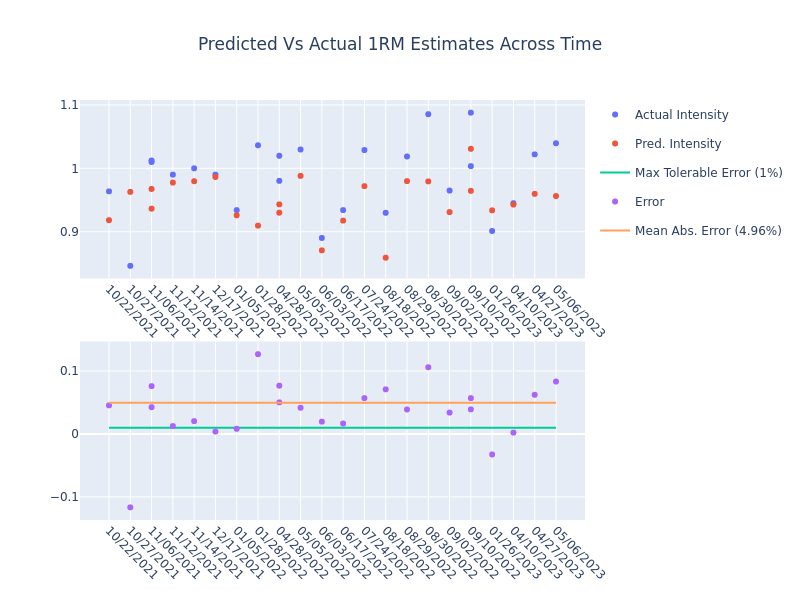
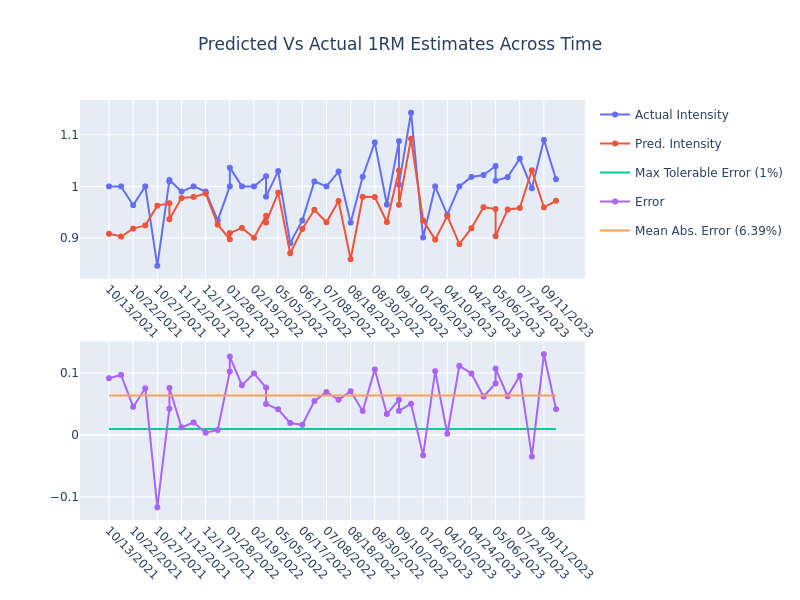
updated graphs from model

diff --git a/PotentialSurface.tex b/PotentialSurface.tex
@@ -963,7 +963,8 @@ To simplify the model, $\epsilon_5$, $\epsilon_6$ and $\epsilon_7$ can be limite
 \section{Analysis of Property 6: 1RM Estimations}
 \label{sec:PotentialSurface1RMEstimations}
 
-Property 6 is concerned with 1RM estimations, with it defining an acceptable boundary of accuracy. Table \ref{tab:BasicSurface1RMEstimations} and figure \ref{fig:ApproximateVsActual1RMIntensity} show the models predicted 1RM vs the actual weight that was lifted. \footnote{The lifter did not have access to any of the models estimations when the 1RM attempts were performed, removing any bias from the data that would have been present if the lifter was told the models estimates.} It should be clear from this table that the model consistently under-predicts the lifters actual 1RM with an error much greater than $1\%$. The model almost never predicts above $100\%$ intensity, which is required for a new 1RM. The only exception was for heeled squat on $9/10/2022$ but even then the model significantly under-predicted the lifters actual performance.
+Property 6 is concerned with 1RM estimations, with it defining an acceptable boundary of accuracy. Table \ref{tab:BasicSurface1RMEstimations} and figure \ref{fig:ApproximateVsActual1RMIntensity} show the models predicted 1RM vs the actual weight that was lifted. \footnote{The lifter did not have access to any of the models estimations when the 1RM attempts were performed, removing any bias from the data that would have been present if the lifter was told the models estimates.} It should be clear from this table that the model consistently under-predicts the lifters actual 1RM with an error much greater than $1\%$. The model almost never predicts above $100\%$ intensity, which is required for a new 1RM.
+%The only exception was for heeled squat on $9/10/2022$ but even then the model significantly under-predicted the lifters actual performance.
 
 \begin{figure}[htb]
     \centering
@@ -971,7 +972,7 @@ Property 6 is concerned with 1RM estimations, with it defining an acceptable bou
     \caption{Graphs comparing the approximate and actual 1RM intensity values. Note how the model nearly always under predicts the lifters current 1RM. The initial value where the prediction was $0$ is not shown in these figures to allow the graphs to be scaled appropriately to show the smaller differences in the predicted vs actual values.}
     \label{fig:ApproximateVsActual1RMIntensity}
 \end{figure}
-\begin{table}[htb]
+\begin{table}[p]
     \centering
 	\csvautotabular{../data/generatedData/Client1.1RMPred.slidingWindow.basic.csv}
 	\caption{A table showing predicted vs actual 1RM intensities. Note that the model consistently under predicts the lifters current 1RM. The first intensity prediction is $0\%$ because that data point is near the start of the data, meaning that at that time the model did not have enough data to make a reliable prediction. This limitation of needed a certain amount of data before predictions can be made will be discussed in part 2.}
@@ -982,7 +983,7 @@ There are a couple reasons the model could be exhibiting this behavior. The most
 
 \section{Summary}
 
-Before moving forward it is worth quickly noting the success and failures of this surface so that it can be compared to the surfaces presented in the next few chapters. Out of all six properties, this surface exhibited four correctly. The fist property that was not met was property 1.b because the surface did not reach a plateau representing volume base. Despite this hindrance, the surface did seem to exhibit reasonable behavior above $50\%$ intensity, which could make it a viable surface to use as long as this limitation is kept in mind.
+Before moving forward it is worth quickly noting the success and failures of this surface so that it can be compared to the surfaces presented in the next few chapters. Out of all six properties, this surface exhibited four correctly. The fist property that was not properly exhibited was property 1.b because the surface did not reach a plateau representing the lifters volume tolerance. Despite this hindrance, the surface did seem to exhibit reasonable behavior above $50\%$ intensity, which could make it a viable surface to use as long as this limitation is kept in mind.
 
 Other than property 1.b, property 5 and 6 were also not properly exhibited. Property 5 dealt with unbounded volume. Constraints were placed on the surface limit the occurrence of unbounded volume, but there can still be scenarios where $\epsilon_5=0$, $\epsilon_6=0$, or $\epsilon_7=0$ where unbounded volume can occur. Property 6 was concerned with 1RM estimations. It was shown that the surface consistently under-predicts the lifters 1RM. This is problematic for several reasons, but largely because a lifters goal is to increase there 1RM, making accurate 1RM estimations necessary to track progress. Table \ref{tab:BasicSurfacePropertiesAndBehaviorsSummary} summarizes the properties and whether or not the surface properly exhibited there behavior. It is clear this surface is far from perfect. Chapter \ref{sec:PotentialSurfaceTheVolumeBaseSurface} will attempt to address some of the previously outlined issues with an updated surface.
 
@@ -1009,7 +1010,7 @@ Other than property 1.b, property 5 and 6 were also not properly exhibited. Prop
 \chapter{Surface 2: The Volume Base Surface}
 \label{sec:PotentialSurfaceTheVolumeBaseSurface}
 
-The second surface builds off of the previous chapter, but changes the meaning of the $\hat{-}$ symbol to mean division. The goal of doing this is to ensure the surface exhibits property 1.b, a property that the basic surface discussed in the previous chapter was missing.
+The second surface builds off of the previous chapter, but changes the meaning of the $\hat{-}$ symbol from the effort-fatigue model to mean division. The goal of doing this is to ensure the surface exhibits property 1.b, a property that the basic surface discussed in the previous chapter was missing.
 
 
 %\section{Application: Solving for the Unknown}

diff --git a/main.py b/main.py
@@ -77,9 +77,9 @@ class Data(object):
     tl=pd.read_csv("../data/testData/AugmentedTrainingLogTestData.csv")
     et=pd.read_csv("../data/testData/ExerciseTypeTestData.csv")
     e=pd.read_csv("../data/testData/ExerciseTestData.csv")
-    ms=pd.read_csv("../data/generatedData/Client1.ms.csv")
-    vs=pd.read_csv("../data/generatedData/Client1.volSkew.csv")
-    pred=pd.read_csv("../data/generatedData/Client1.pred.csv")
+    ms=pd.read_csv("../data/generatedData/Client1.ms.slidingWindow.basic.csv")
+    vs=pd.read_csv("../data/generatedData/Client1.volSkew.slidingWindow.basic.csv")
+    pred=pd.read_csv("../data/generatedData/Client1.pred.slidingWindow.basic.csv")
     oneRMPred=pd.read_csv("../data/generatedData/Client1.1RMPred.slidingWindow.basic.csv")
     approxVolSkew={
         f[f.rfind('/')+1:f.rfind('.')]: pd.read_csv(f)
@@ -691,8 +691,8 @@ class Ch3(object):
         )[["Eps1","Date"]].dropna()
         min: float=tmp["Eps1"].min()
         max: float=tmp["Eps1"].max()
-        print((tmp["Eps1"]<0).sum())
-        print((tmp["Eps1"]<=0).sum())
+        # print((tmp["Eps1"]<0).sum())
+        # print((tmp["Eps1"]<=0).sum())
         numBelowZero: int=(tmp["Eps1"]<=0).sum()
         fig=px.scatter(tmp,x="Date",y="Eps1",
             labels={
@@ -742,7 +742,7 @@ class Ch3(object):
             #     "Approx Volume Skew: >=1: {2}  <1: {3}</sup>"
             #     .format(numGte1,numLt1,approxNumGte1,approxNumLt1)
         )
-        print(np.average(np.abs(tmp["VolumeSkew"]-tmp["ApproxVolumeSkew"]).dropna()))
+        # print(np.average(np.abs(tmp["VolumeSkew"]-tmp["ApproxVolumeSkew"]).dropna()))
         # fig=px.scatter(x=tmp["Date"],y=np.abs(tmp["VolumeSkew"]-tmp["ApproxVolumeSkew"]))
         # fig.add_trace(go.Scatter(x=tmp["Date"],y=tmp["VolumeSkew"]-tmp["ApproxVolumeSkew"]))
         fig.update_layout(
@@ -833,14 +833,14 @@ class Ch3(object):
         fig.add_trace(go.Scatter(
             x=tmp["DatePerformed"],
             y=tmp["Intensity"],
-            mode="markers",
+            mode="markers+lines",
             name="Actual Intensity",
             legendgroup="actual",
         ),row=1,col=1)
         fig.add_trace(go.Scatter(
             x=tmp["DatePerformed"],
             y=tmp["PredictedIntensity"],
-            mode="markers",
+            mode="markers+lines",
             name="Pred. Intensity",
             legendgroup="pred",
         ),col=1,row=1)
@@ -854,7 +854,7 @@ class Ch3(object):
         fig.add_trace(go.Scatter(
             x=tmp["DatePerformed"],
             y=tmp["Intensity"]-tmp["PredictedIntensity"],
-            mode="markers",
+            mode="markers+lines",
             name="Error",
             legendgroup="err",
         ),col=1,row=2)

diff --git a/Data.tex b/Data.tex
@@ -128,9 +128,9 @@ Before starting, it is worth mentioning how elements in the data set were measur
 	
 	\item Intensity: Intensity follows the definition of weight. Recording the weight lifted as a proportion of the lifters 1RM is all that's required. This defines intensity as $I>0$. Again, intensity is not allowed to equal $0$ because that would imply there is no training stimulus. Intensity is not capped at $1$ because lifting a weight greater than the lifters previous 1RM is the ultimate goal of a powerlifting program. By definition, intensity is recorded as a percentage.
 	
-	\item Reps: Reps are just positive integer values greater than or equal to $1$, or $r\in \{ \mathbb{N} \ge 1 \}$. Reps are a base unit, and as such just have the unit of 'reps'. However, for the vast majority of the discussions in this book, reps will be presumed to be \textit{unit-less}.
+	\item Reps: Reps are just positive integer values greater than or equal to $1$, or $r\in \{ \mathbb{N} \ge 1 \}$. Reps are a base unit, and as such just have the unit of 'reps'. However, for the vast majority of the discussions in this book, reps will be presumed to be unit-less.
 	
-	\item Sets: As discussed in section \ref{sec:FractionalSets}, sets are in the domain of positive numbers greater than or equal to $1$, or $s\ge 1$. Just like reps, sets are a base unit, and will have the unit of 'sets'. However, just like reps, sets will be presumed to be \textit{unit-less}.
+	\item Sets: As discussed in section \ref{sec:FractionalSets}, sets are in the domain of positive numbers greater than or equal to $1$, or $s\ge 1$. Just like reps, sets are a base unit, and will have the unit of 'sets'. However, just like reps, sets will be presumed to be unit-less.
 	
 	\item Effort: Effort will follow the RPE scale, discussed in section \ref{sec:CommonTermsSection}, defining it as $E\in \{0,0.5,1,...,10\}$. Effort has units of RPE.
 	
